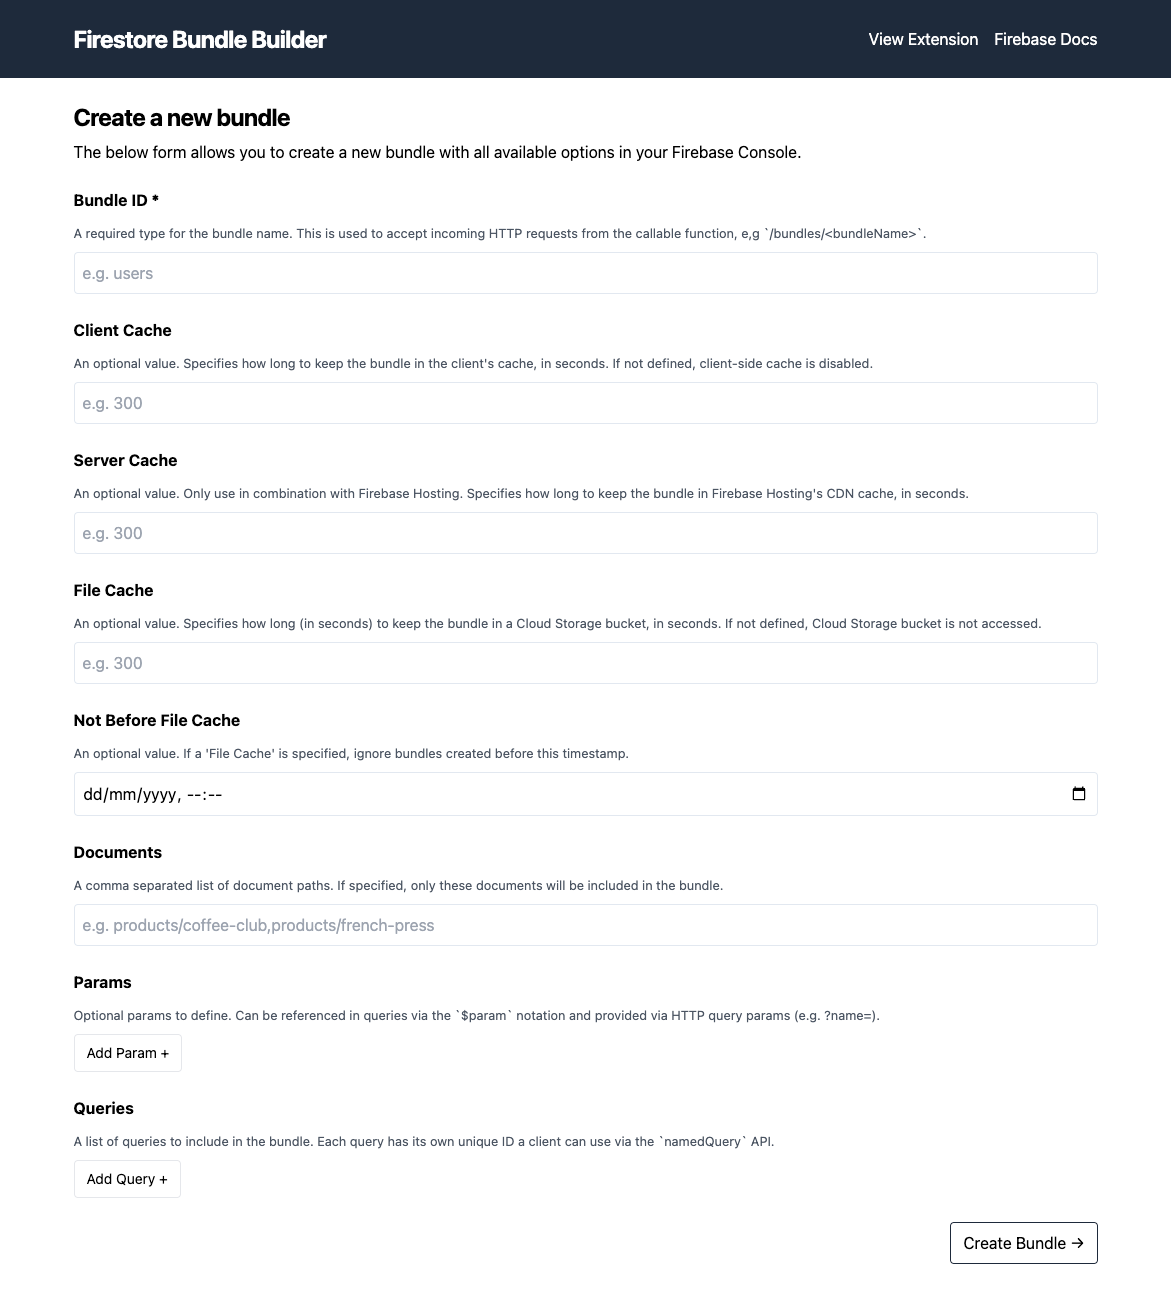
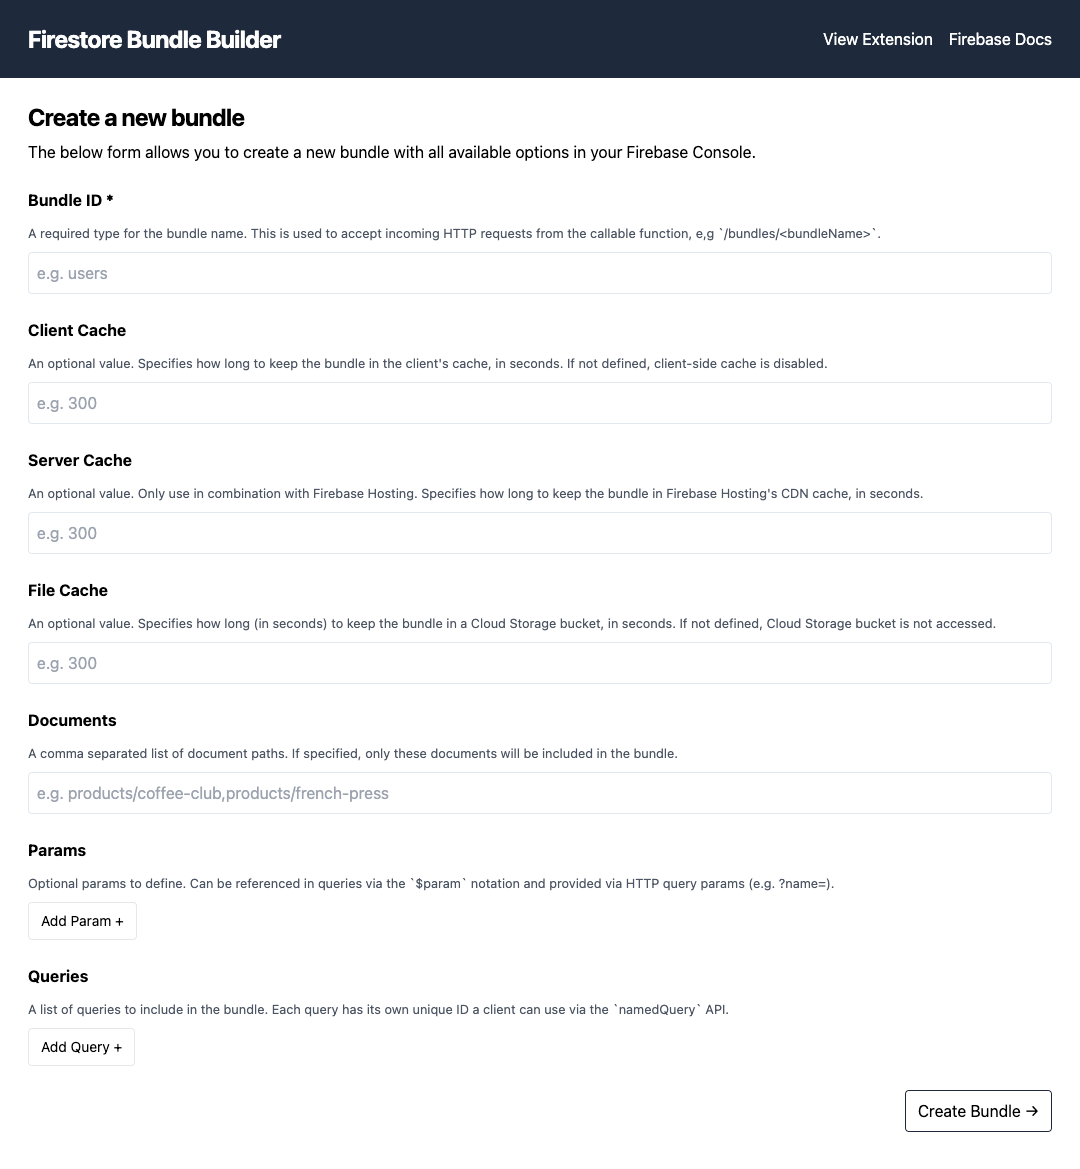
feat!(firestore-bundle-builder): remove notBefore feature

diff --git a/firestore-bundle-builder/admin-dashboard/app/routes/create.tsx b/firestore-bundle-builder/admin-dashboard/app/routes/create.tsx
@@ -5,7 +5,7 @@ import { redirect } from "@remix-run/node";
 import { useActionData } from "@remix-run/react";
 import qs from "qs";
 import { Label } from "~/components/Label";
-import { createBundle, getBundle, Timestamp } from "~/firebase.server";
+import { createBundle, getBundle } from "~/firebase.server";
 import type { Bundle } from "~/types";
 import { Button } from "~/components/Button";
 import { TrashIcon } from "~/components/icons";
@@ -30,9 +30,6 @@ export const action: ActionFunction = async ({ request }) => {
     clientCache: (form.clientCache as string) || null,
     serverCache: (form.serverCache as string) || null,
     fileCache: (form.fileCache as string) || null,
-    notBefore: (form.notBefore as string)
-      ? Timestamp.fromDate(new Date(form.notBefore as string))
-      : null,
     docs: form.docs ? (form.docs as string).split(",") : null,
     params: {},
     queries: {},
@@ -159,12 +156,6 @@ export default function Create() {
           description="An optional value. Specifies how long (in seconds) to keep the bundle in a Cloud Storage bucket, in seconds. If not defined, Cloud Storage bucket is not accessed."
         >
           <Input name="fileCache" type="number" placeholder="e.g. 300" defaultValue={action?.form.fileCache} error={action?.errors.fileCache} />
-        </Label>
-        <Label
-          label="Not Before File Cache"
-          description="An optional value. If a 'File Cache' is specified, ignore bundles created before this timestamp."
-        >
-          <Input name="notBefore" type="datetime-local" defaultValue={action?.form.notBefore} error={action?.errors.notBefore} />
         </Label>
         <Label
           label="Documents"

diff --git a/firestore-bundle-builder/functions/src/index.ts b/firestore-bundle-builder/functions/src/index.ts
@@ -88,26 +88,15 @@ async function fileCacheStream(
   query: { [k: string]: any },
   options: {
     ttlSec: number;
-    notBefore?: Timestamp;
     gzip?: boolean;
   }
 ): Promise<NodeJS.ReadableStream | null> {
   const file = bucket.file(storagePath(bundleId, query));
   try {
-    const [metadata] = await file.getMetadata();
-    const createTime = new Date(metadata.timeCreated).getTime();
-    if (
-      (options.notBefore && createTime < options.notBefore.toMillis()) ||
-      Date.now() > createTime + options.ttlSec * 1000
-    ) {
-      // tslint:disable-next-line:no-floating-promises
-      file.delete(); // fire and forget
-      return null;
-    }
     // keep gzip compression for over the wire
     return file.createReadStream({ decompress: !options.gzip });
   } catch (e) {
-    functions.logger.error("getMetadata error:", e.message, e.code);
+    functions.logger.error("createReadStream error:", e.message, e.code);
     return null;
   }
 }
@@ -175,7 +164,6 @@ export const serve = functions.handler.https.onRequest(
 
       const outStream = await fileCacheStream(bundleId, paramValues, {
         ttlSec: bundleSpec.fileCache,
-        notBefore: bundleSpec.notBefore,
         gzip: canGzip,
       });
 

diff --git a/firestore-bundle-builder/functions/__tests__/functions.test.ts b/firestore-bundle-builder/functions/__tests__/functions.test.ts
@@ -227,19 +227,6 @@ describe("functions", () => {
     expect(metadata.metadata.totalDocuments).toEqual(0);
   });
 
-  xit("successfully returns a bundle using notBefore", async () => {
-    const bundleName = "with-notBefore";
-    const url = extUrl(bundleName);
-    const { data: bundle } = await axios(url);
-
-    const [metadata, documentMetadata, document] =
-      extractObjectfromBuffer(bundle);
-
-    /*** check metadata */
-    expect(metadata.metadata.id).toEqual(bundleName);
-    expect(metadata.metadata.totalDocuments).toEqual(0);
-  });
-
   it("successfully returns a request through a webiste hosted by Firebase", async () => {
     const bundleName = "documents-queries-params";
     const url = extHostedUrl(bundleName);

diff --git a/firestore-bundle-builder/admin-dashboard/app/firebase.server.ts b/firestore-bundle-builder/admin-dashboard/app/firebase.server.ts
@@ -3,8 +3,6 @@ import { getFirestore } from "firebase-admin/firestore";
 import type { QuerySnapshot } from "firebase-admin/firestore";
 import type { Bundle } from "./types";
 
-export { Timestamp } from "firebase-admin/firestore";
-
 const projectId = process.env.PROJECT_ID;
 const bundlesCollectionPath = process.env.BUNDLESPEC_COLLECTION || "bundles";
 

diff --git a/firestore-bundle-builder/functions/src/build_bundle.ts b/firestore-bundle-builder/functions/src/build_bundle.ts
@@ -140,10 +140,6 @@ export interface BundleSpec {
    * the specified number of seconds.
    */
   fileCache?: number;
-  /**
-   * When `fileCache` is specified, ignore bundles created before this timestamp.
-   */
-  notBefore?: Timestamp;
 }
 
 /**
